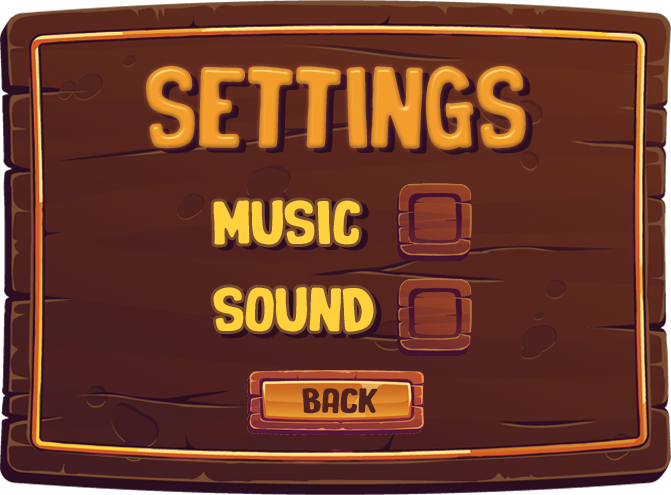
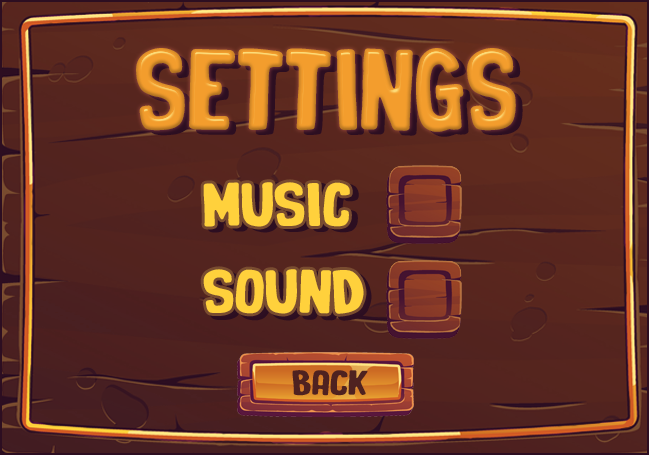
added function in GUI

diff --git a/src/GUI/SettingController.java b/src/GUI/SettingController.java
@@ -1,26 +1,30 @@
 package GUI;
 
 import javafx.application.Platform;
+import javafx.event.ActionEvent;
 import javafx.fxml.FXML;
+import javafx.scene.Node;
 import javafx.scene.control.Button;
 import javafx.scene.control.CheckBox;
+import javafx.scene.input.InputEvent;
 import javafx.scene.layout.StackPane;
+import javafx.stage.Stage;
 
-public class SettingController extends StackPane{
-	
+public class SettingController extends StackPane {
+
 	@FXML
 	public Button backToMainButton;
-	
+
 	@FXML
 	public CheckBox musicCheckBox;
-	
+
 	@FXML
 	public CheckBox soundCheckBox;
-	
-	@FXML
-	private void backToMainMenu() {
 
-		
+	@FXML
+	private void backToMainMenu(ActionEvent event) {
+
+		((Node)(event.getSource())).getScene().getWindow().hide();
 	}
 
 }

diff --git a/src/GUI/MenuController.java b/src/GUI/MenuController.java
@@ -21,6 +21,7 @@ import javafx.scene.canvas.GraphicsContext;
 import javafx.scene.image.Image;
 import javafx.scene.layout.VBox;
 import javafx.stage.Stage;
+import javafx.stage.StageStyle;
 
 public class MenuController extends VBox implements Initializable {
 
@@ -51,6 +52,7 @@ public class MenuController extends VBox implements Initializable {
 		SettingController settingControl = loader.getController();
 		Scene scene = new Scene(root);
 		Stage app_stage = new Stage();
+		app_stage.initStyle(StageStyle.UNDECORATED);
 		app_stage.setScene(scene);
 		app_stage.setResizable(false);
 		app_stage.show();
